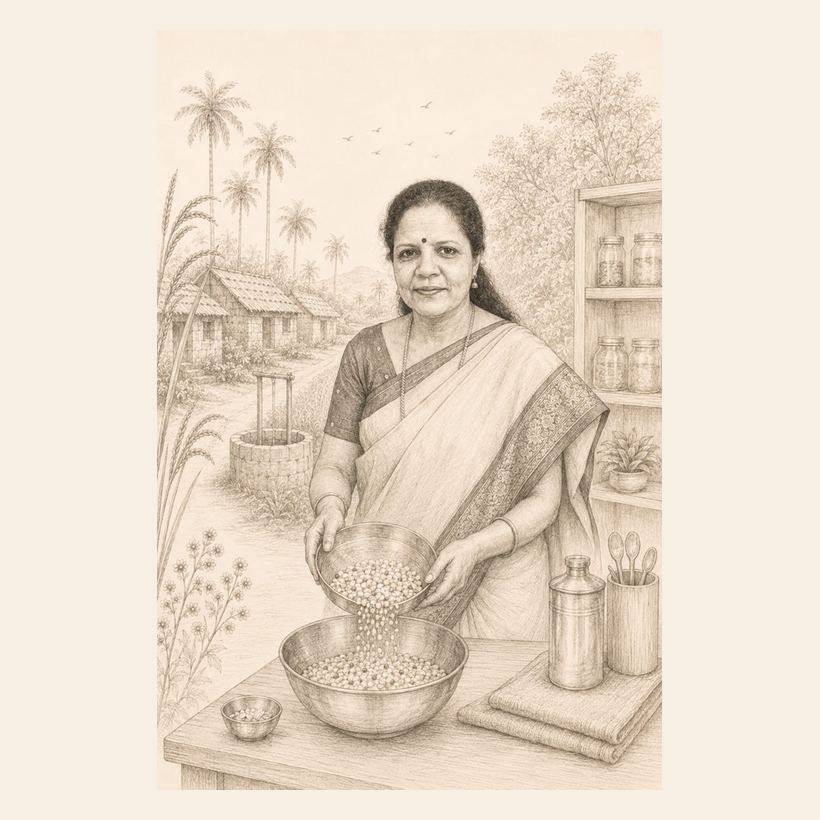
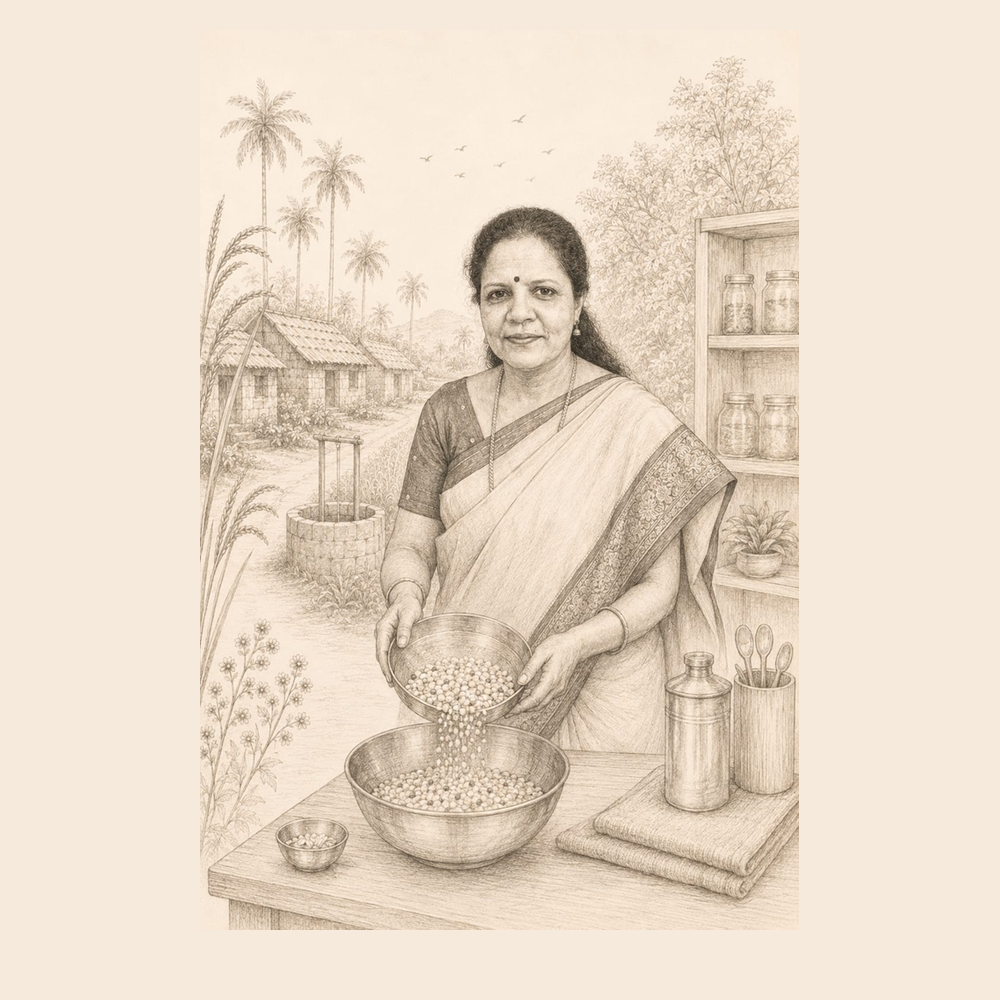
Add files via upload

Changed region(s): [[0.1829, 0.061, 0.8232, 0.9756]]

diff --git a/index.html b/index.html
@@ -35,7 +35,7 @@
     .outline-btn{display:inline-flex; align-items:center; justify-content:center; color:var(--green); font-weight:900; border:1.5px solid rgba(6,77,54,.24); padding:11px 15px; border-radius:999px; background:rgba(255,250,243,.65)}
     .hero-visual{background:linear-gradient(160deg, rgba(6,77,54,.12), rgba(201,149,47,.10)); display:flex; flex-direction:column; align-items:center; justify-content:flex-start; padding:14px 24px 72px; position:relative}
     .hero-visual::after{content:""; position:absolute; inset:auto -90px -90px auto; width:260px; height:260px; background:rgba(201,149,47,.12); border-radius:50%}
-    .hero-visual img{width:min(360px,82%); max-height:420px; object-fit:contain; border-radius:28px; border:8px solid rgba(255,250,243,.92); box-shadow:0 28px 70px rgba(0,0,0,.16); background:#fff; position:relative; z-index:2; margin-top:0}
+    .hero-visual img{width:min(540px,98%); max-height:560px; object-fit:contain; border-radius:28px; border:8px solid rgba(255,250,243,.92); box-shadow:0 28px 70px rgba(0,0,0,.16); background:#fff; position:relative; z-index:2; margin-top:0}
     .stats{display:grid; grid-template-columns: repeat(2, minmax(0,1fr)); gap:12px; margin-top:26px; max-width:440px}
     .stat{background:rgba(255,250,243,.72); border:1px solid rgba(59,32,26,.1); border-radius:18px; padding:14px}
     .stat strong{display:block; color:var(--green); font-size:25px}
@@ -55,9 +55,15 @@
     .product-body h4{margin:0; color:var(--green); font-size:18px; line-height:1.14}
     .meta{display:flex; flex-wrap:wrap; gap:7px}
     .meta span{background:rgba(6,77,54,.08); color:var(--green); border-radius:999px; padding:5px 8px; font-weight:900; font-size:11px}
+    .price-row{display:flex; flex-wrap:wrap; gap:8px; align-items:center; margin-top:2px}
+    .mrp-pill{display:inline-flex; align-items:center; gap:6px; background:linear-gradient(180deg, #f7e9d2 0%, #f2ddbf 100%); color:#7d4d21; border:1.5px solid #d9b78a; border-radius:999px; padding:7px 12px; font-weight:1000; font-size:13px; box-shadow:inset 0 1px 0 rgba(255,255,255,.75), 0 4px 10px rgba(125,77,33,.08)}
+    .mrp-pill strong{font-size:14px; color:#7d4d21}
+    .desc-special{display:inline-block; color:#a64f19; font-family:Georgia,"Times New Roman",serif; font-style:italic; font-weight:1000; background:linear-gradient(180deg, #f7e9d2 0%, #f2ddbf 100%); border:1.5px solid #d9b78a; border-radius:999px; padding:3px 12px; box-shadow:inset 0 1px 0 rgba(255,255,255,.75), 0 4px 10px rgba(125,77,33,.08); white-space:nowrap; animation:specialBlink 1.15s ease-in-out infinite}
+    @keyframes specialBlink{0%,100%{opacity:1; transform:scale(1); box-shadow:inset 0 1px 0 rgba(255,255,255,.75), 0 4px 10px rgba(125,77,33,.08)}50%{opacity:.42; transform:scale(1.04); box-shadow:inset 0 1px 0 rgba(255,255,255,.75), 0 0 0 3px rgba(214,126,47,.10), 0 8px 20px rgba(214,126,47,.22)}}
+
     .product-body p{margin:0; line-height:1.5; color:rgba(59,32,26,.8); font-size:13.5px}
     .desc-highlight{color:var(--gold); font-family:Georgia,"Times New Roman",serif; font-style:italic; font-weight:900; background:rgba(201,149,47,.12); padding:1px 5px; border-radius:999px; white-space:nowrap}
-    .desc-special{color:var(--green); font-family:Georgia,"Times New Roman",serif; font-style:italic; font-weight:900; background:rgba(6,77,54,.10); padding:1px 5px; border-radius:999px; white-space:nowrap}
+    
     .product-actions{display:flex; gap:8px; flex-wrap:wrap; margin-top:auto; padding-top:4px}
     .product-actions .whatsapp{padding:9px 10px; font-size:13px}
     .view-link{border:none; background:transparent; color:var(--green); font-weight:900; cursor:pointer; padding:7px 0; text-decoration:underline; text-underline-offset:3px; font-size:12px}
@@ -77,6 +83,25 @@
     .social-card{background:#fffaf3; border:1px solid rgba(59,32,26,.12); border-radius:22px; padding:14px; text-align:center}
     .social-card img{width:126px; height:126px; object-fit:contain; margin:4px auto 8px; display:block}
     .social-card a{color:var(--green); font-weight:900; word-break:break-word; font-size:13px}
+
+    .contact-item-icon,.social-logo-link{display:inline-flex; align-items:center; justify-content:center; vertical-align:middle}
+    .contact-item-icon svg{width:18px; height:18px; margin-right:8px; color:var(--green)}
+    .social-logo-link{width:44px; height:44px; border-radius:50%; background:rgba(6,77,54,.08); border:1.5px solid rgba(6,77,54,.15); transition:transform .2s ease, box-shadow .2s ease, background .2s ease}
+    .social-logo-link svg{width:24px; height:24px; color:var(--green)}
+    .social-logo-link:hover{transform:translateY(-2px); box-shadow:0 8px 18px rgba(6,77,54,.12); background:rgba(6,77,54,.12)}
+
+    .contact-link-row{display:flex; align-items:center; gap:12px; flex-wrap:wrap}
+    .contact-link-row .social-logo-link{width:42px; height:42px}
+    .contact-link-row .email-address{color:var(--green); font-weight:900; text-decoration:underline; text-underline-offset:3px; word-break:break-word}
+
+    .social-text-row{display:flex; align-items:center; gap:10px; flex-wrap:wrap; margin-top:8px}
+    .social-text-link{display:inline-flex; align-items:center; justify-content:center; width:22px; height:22px; color:var(--green); text-decoration:none}
+    .social-text-link svg{width:22px; height:22px}
+    .social-label-chip{display:inline-flex; align-items:center; min-height:26px; padding:3px 7px; background:rgba(59,59,59,.18); color:#333; font-weight:900; font-size:15px; line-height:1.2; text-decoration:none!important; border-radius:0}
+    .social-label-chip:hover{background:rgba(6,77,54,.14); color:var(--green)}
+
+
+
     .certs{display:flex; gap:14px; flex-wrap:wrap; align-items:center; margin-top:18px}
     .certs img{max-width:260px; height:auto}
     .gst-badge{background:#fffaf3; border:2px solid var(--green); border-radius:20px; padding:16px 18px; color:var(--green); font-weight:900}
@@ -99,6 +124,12 @@
   </style>
 </head>
 <body>
+<svg xmlns="http://www.w3.org/2000/svg" style="position:absolute;width:0;height:0;overflow:hidden" aria-hidden="true" focusable="false">
+  <symbol id="icon-instagram" viewBox="0 0 24 24"><path fill="currentColor" d="M7.75 2h8.5A5.75 5.75 0 0 1 22 7.75v8.5A5.75 5.75 0 0 1 16.25 22h-8.5A5.75 5.75 0 0 1 2 16.25v-8.5A5.75 5.75 0 0 1 7.75 2Zm0 1.8A3.95 3.95 0 0 0 3.8 7.75v8.5a3.95 3.95 0 0 0 3.95 3.95h8.5a3.95 3.95 0 0 0 3.95-3.95v-8.5a3.95 3.95 0 0 0-3.95-3.95h-8.5Zm8.95 1.35a1.1 1.1 0 1 1 0 2.2 1.1 1.1 0 0 1 0-2.2ZM12 6.35A5.65 5.65 0 1 1 6.35 12 5.66 5.66 0 0 1 12 6.35Zm0 1.8A3.85 3.85 0 1 0 15.85 12 3.86 3.86 0 0 0 12 8.15Z"/></symbol>
+  <symbol id="icon-facebook" viewBox="0 0 24 24"><path fill="currentColor" d="M13.5 22v-8h2.8l.42-3.25H13.5V8.67c0-.94.26-1.57 1.6-1.57h1.72V4.2A23.1 23.1 0 0 0 14.3 4c-2.5 0-4.2 1.52-4.2 4.32v2.43H7.3V14h2.8v8h3.4Z"/></symbol>
+  <symbol id="icon-email" viewBox="0 0 24 24"><path fill="currentColor" d="M3 5.25A2.25 2.25 0 0 1 5.25 3h13.5A2.25 2.25 0 0 1 21 5.25v13.5A2.25 2.25 0 0 1 18.75 21H5.25A2.25 2.25 0 0 1 3 18.75V5.25Zm1.8.38v.18l7.2 5.62 7.2-5.62v-.18H4.8Zm14.4 2.46-6.65 5.18a.9.9 0 0 1-1.1 0L4.8 8.09v10.66c0 .25.2.45.45.45h13.5c.25 0 .45-.2.45-.45V8.09Z"/></symbol>
+</svg>
+
 <header class="topbar">
   <div class="wrap nav">
     <a class="brand" href="#top" aria-label="Saraswati's Kitchen home">
@@ -178,8 +209,16 @@
               <p><strong>Saraswati's Kitchen</strong> is a unit of White Beans Innovations.</p>
               <p><strong>Phone / WhatsApp:</strong> <a href="https://wa.me/918588825220" target="_blank" rel="noopener">8588825220</a></p>
               <p class="distributor-note">Distributor enquiries are welcome.</p>
-              <p><strong>Instagram:</strong> <a href="https://www.instagram.com/saraswatis.kitchen?igsh=OTh3OXY5ODN5a3V4" target="_blank" rel="noopener">@saraswatis.kitchen</a></p>
-              <p><strong>Facebook:</strong> <a href="https://www.facebook.com/share/1QmvS9EoXv/" target="_blank" rel="noopener">Saraswati's Kitchen on Facebook</a></p>
+              <div class="contact-link-row">
+                <a class="social-logo-link" href="mailto:parvatiswaminathan@gmail.com" aria-label="Email"><svg viewBox="0 0 24 24"><use href="#icon-email"></use></svg></a>
+                <a class="email-address" href="mailto:parvatiswaminathan@gmail.com">parvatiswaminathan@gmail.com</a>
+              </div>
+              <div class="social-text-row">
+                <a class="social-text-link" href="https://www.instagram.com/saraswatis.kitchen?igsh=OTh3OXY5ODN5a3V4" target="_blank" rel="noopener" aria-label="Instagram"><svg viewBox="0 0 24 24"><use href="#icon-instagram"></use></svg></a>
+                <a class="social-label-chip" href="https://www.instagram.com/saraswatis.kitchen?igsh=OTh3OXY5ODN5a3V4" target="_blank" rel="noopener">@saraswatis.kitchen</a>
+                <a class="social-text-link" href="https://www.facebook.com/share/1QmvS9EoXv/" target="_blank" rel="noopener" aria-label="Facebook"><svg viewBox="0 0 24 24"><use href="#icon-facebook"></use></svg></a>
+                <a class="social-label-chip" href="https://www.facebook.com/share/1QmvS9EoXv/" target="_blank" rel="noopener">Saraswati's Kitchen</a>
+              </div>
             </div>
             <div class="certs">
               <img src="assets/brand/fssai-badge.png" alt="FSSAI license 12725055000859" />
@@ -191,11 +230,11 @@
             <div class="socials">
               <div class="social-card">
                 <img src="assets/qr/instagram.png" alt="Instagram QR code" />
-                <a href="https://www.instagram.com/saraswatis.kitchen?igsh=OTh3OXY5ODN5a3V4" target="_blank" rel="noopener">Instagram</a>
+                <a class="social-logo-link" href="https://www.instagram.com/saraswatis.kitchen?igsh=OTh3OXY5ODN5a3V4" target="_blank" rel="noopener" aria-label="Instagram"><svg viewBox="0 0 24 24"><use href="#icon-instagram"></use></svg></a>
               </div>
               <div class="social-card">
                 <img src="assets/qr/facebook.png" alt="Facebook QR code" />
-                <a href="https://www.facebook.com/share/1QmvS9EoXv/" target="_blank" rel="noopener">Facebook</a>
+                <a class="social-logo-link" href="https://www.facebook.com/share/1QmvS9EoXv/" target="_blank" rel="noopener" aria-label="Facebook"><svg viewBox="0 0 24 24"><use href="#icon-facebook"></use></svg></a>
               </div>
               <div class="social-card">
                 <img src="assets/qr/whatsapp.png" alt="WhatsApp QR code" />
@@ -234,7 +273,8 @@ const products = [
     "pack": "200 g / 500 g",
     "image": "assets/products/sprouted-ragi-dosa-premix.jpg",
     "tag": "Best Seller",
-    "description": "Best Seller - sprouted ragi goodness for quick, wholesome dosas."
+    "description": "Best Seller - sprouted ragi goodness for quick, wholesome dosas.",
+    "mrp": "₹150"
   },
   {
     "title": "Rolled Oats Dosa Premix",
@@ -242,7 +282,8 @@ const products = [
     "pack": "200 g / 500 g",
     "image": "assets/products/rolled-oats-dosa-premix.jpg",
     "tag": "Best Seller",
-    "description": "Best Seller - hearty rolled oats premix for light, crisp dosas."
+    "description": "Best Seller - hearty rolled oats premix for light, crisp dosas.",
+    "mrp": "₹150"
   },
   {
     "title": "Soyabean Dosa Premix",
@@ -250,7 +291,8 @@ const products = [
     "pack": "200 g / 500 g",
     "image": "assets/products/soyabean-dosa-premix.jpg",
     "tag": "Protein-Rich",
-    "description": "Unbelievably tasty and protein-rich, made for everyday dosa cravings."
+    "description": "Unbelievably tasty and protein-rich, made for everyday dosa cravings.",
+    "mrp": "₹150"
   },
   {
     "title": "Jowar Dosa Premix",
@@ -258,7 +300,8 @@ const products = [
     "pack": "200 g / 500 g",
     "image": "assets/products/jowar-dosa-premix.jpg",
     "tag": "Millet Blend",
-    "description": "Nutritious jowar millet blend for easy, healthy dosas."
+    "description": "Nutritious jowar millet blend for easy, healthy dosas.",
+    "mrp": "₹150"
   },
   {
     "title": "Adai Multi Grain Premix",
@@ -266,7 +309,8 @@ const products = [
     "pack": "200 g / 500 g",
     "image": "assets/products/adai-multi-grain-premix.jpg",
     "tag": "Must Try",
-    "description": "Saraswati's special - a hearty multi-grain premix and a must try."
+    "description": "Saraswati's special - a hearty multi-grain premix and a must try.",
+    "mrp": "₹150"
   },
   {
     "title": "Bajra Dosa Premix",
@@ -274,7 +318,8 @@ const products = [
     "pack": "200 g / 500 g",
     "image": "assets/products/bajra-dosa-premix.jpg",
     "tag": "Bajra Goodness",
-    "description": "Nutritious bajra premix for crisp, comforting homemade dosas."
+    "description": "Nutritious bajra premix for crisp, comforting homemade dosas.",
+    "mrp": "₹150"
   },
   {
     "title": "Plain Dosa Premix",
@@ -282,7 +327,8 @@ const products = [
     "pack": "200 g / 500 g",
     "image": "assets/products/plain-dosa-premix.jpg",
     "tag": "Instant Mix",
-    "description": "Make delicious crisp dosas in minutes - simple, quick and homely."
+    "description": "Make delicious crisp dosas in minutes - simple, quick and homely.",
+    "mrp": "₹150"
   },
   {
     "title": "Plain Idli Premix",
@@ -290,7 +336,8 @@ const products = [
     "pack": "200 g / 500 g",
     "image": "assets/products/plain-idli-premix.jpg",
     "tag": "Soft & Fluffy",
-    "description": "Quick and easy premix for soft, fluffy homemade idlis."
+    "description": "Quick and easy premix for soft, fluffy homemade idlis.",
+    "mrp": "₹150"
   },
   {
     "title": "Millet Pancake Chocolate",
@@ -298,7 +345,8 @@ const products = [
     "pack": "200 g / 500 g",
     "image": "assets/products/millet-pancake-chocolate.jpg",
     "tag": "Chocolate",
-    "description": "Oats and ragi goodness in a delicious chocolate pancake mix."
+    "description": "Oats and ragi goodness in a delicious chocolate pancake mix.",
+    "mrp": "₹180"
   },
   {
     "title": "Millet Pancake Valilla",
@@ -306,7 +354,8 @@ const products = [
     "pack": "200 g / 500 g",
     "image": "assets/products/millet-pancake-valilla.jpg",
     "tag": "Vanilla",
-    "description": "Oats and jowar goodness in a soft, wholesome vanilla pancake mix."
+    "description": "Oats and jowar goodness in a soft, wholesome vanilla pancake mix.",
+    "mrp": "₹180"
   },
   {
     "title": "Millet Pancake Mango",
@@ -314,7 +363,8 @@ const products = [
     "pack": "200 g / 500 g",
     "image": "assets/products/millet-pancake-mango.jpg",
     "tag": "Mango",
-    "description": "Our first mango pancake mix - made with sprouted millets."
+    "description": "Our first mango pancake mix - made with sprouted millets.",
+    "mrp": "₹180"
   },
   {
     "title": "Khapali Ata (Emmer Wheat)",
@@ -322,7 +372,8 @@ const products = [
     "pack": "1 kg / 5 kg",
     "image": "assets/products/khapali-ata-emmer-wheat.jpg",
     "tag": "Ancient Grain",
-    "description": "Stone-ground ancient emmer wheat flour for soft, nutritious rotis."
+    "description": "Stone-ground ancient emmer wheat flour for soft, nutritious rotis.",
+    "mrp": "₹250"
   },
   {
     "title": "10 Grains Khapali-Millet Ata",
@@ -330,7 +381,8 @@ const products = [
     "pack": "1 kg / 5 kg",
     "image": "assets/products/10-grains-khapali-millet-ata.jpg",
     "tag": "Multi-Grain",
-    "description": "Khapali blended with nutrient-rich millets and supergrains."
+    "description": "Khapali blended with nutrient-rich millets and supergrains.",
+    "mrp": "₹250"
   },
   {
     "title": "Nuts & Seeds Chocolate Milk Blend",
@@ -338,7 +390,8 @@ const products = [
     "pack": "200 g",
     "image": "assets/products/nuts-seeds-chocolate-milk-blend.jpg",
     "tag": "Nutrition-Packed",
-    "description": "Packed with REAL dry fruits, nuts and seeds - no compromise on daily nutrition-packed goodness."
+    "description": "Packed with REAL dry fruits, nuts and seeds - no compromise on daily nutrition-packed goodness.",
+    "mrp": "₹280"
   },
   {
     "title": "Channa and Jau Sattu Drink",
@@ -346,7 +399,8 @@ const products = [
     "pack": "250 g",
     "image": "assets/products/channa-and-jau-sattu-drink.jpg",
     "tag": "Summer Cooler",
-    "description": "Summer coolers, chill your ❤."
+    "description": "Summer coolers, chill your ❤.",
+    "mrp": "₹180"
   },
   {
     "title": "Sambar Powder",
@@ -354,7 +408,8 @@ const products = [
     "pack": "100 g",
     "image": "assets/products/sambar-powder.jpg",
     "tag": "Freshly Ground",
-    "description": "Traditional recipe, bold spice blend and freshly ground aroma."
+    "description": "Traditional recipe, bold spice blend and freshly ground aroma.",
+    "mrp": "₹120"
   },
   {
     "title": "Idli/Dosa Podi",
@@ -362,7 +417,8 @@ const products = [
     "pack": "100 g",
     "image": "assets/products/idli-dosa-podi.jpg",
     "tag": "Spice Blend",
-    "description": "Traditional South Indian spice blend for idli, dosa and rice."
+    "description": "Traditional South Indian spice blend for idli, dosa and rice.",
+    "mrp": "₹120"
   },
   {
     "title": "Diet Mix (Mixture)",
@@ -370,7 +426,8 @@ const products = [
     "pack": "165 g",
     "image": "assets/products/diet-mix-mixture.jpg",
     "tag": "Guilt-Free Snacking",
-    "description": "Packed with real dry fruits and peanuts - for your guilt-free snacking."
+    "description": "Packed with real dry fruits and peanuts - for your guilt-free snacking.",
+    "mrp": "₹160"
   },
   {
     "title": "Laddu Varieties",
@@ -378,7 +435,8 @@ const products = [
     "pack": "250 g / 500 g",
     "image": "assets/products/laddu-varieties.jpg",
     "tag": "Homemade Sweets",
-    "description": "Besan-dryfruit, Atta-Gond, Chana-Makhana-Dryfruit, Nuts&Seeds, Methi-Dryfruit, Khoya-Nariyal-Dryfruit."
+    "description": "Besan-dryfruit, Atta-Gond, Chana-Makhana-Dryfruit, Nuts&Seeds, Methi-Dryfruit, Khoya-Nariyal-Dryfruit.",
+    "mrp": "₹280"
   },
   {
     "title": "Mathri Varieties",
@@ -386,7 +444,8 @@ const products = [
     "pack": "250 g / 500 g",
     "image": "assets/products/mathri-varieties.jpg",
     "tag": "Chai-Time Snack",
-    "description": "India favourite chai time snack - Atta, Maida-Suji, beetroot-spinch (red, green marbling)."
+    "description": "India favourite chai time snack - Atta, Maida-Suji, beetroot-spinch (red, green marbling).",
+    "mrp": "₹220"
   },
   {
     "title": "Crispy Namakpare",
@@ -394,7 +453,8 @@ const products = [
     "pack": "250 g / 500 g",
     "image": "assets/products/crispy-namakpare.jpg",
     "tag": "Crispy Snack",
-    "description": "Traditional homemade crispy namakpare for anytime snacking."
+    "description": "Traditional homemade crispy namakpare for anytime snacking.",
+    "mrp": "₹180"
   }
 ];
 const phone = "918588825220";
@@ -416,7 +476,7 @@ function highlightDescription(text) {
     .replace(/Saraswati’s special/g, '<span class="desc-special">Saraswati’s special</span>');
 }
 function orderLink(product) {
-  const message = `Hello Parvati ji, I want to enquire about: ${product.title}. Available pack: ${product.pack}. Please confirm price and availability.`;
+  const message = `Hello Parvati ji, I want to enquire about: ${product.title}. Available pack: ${product.pack}. MRP: ${product.mrp}. Please share the best available offer and availability.`;
   return `https://wa.me/${phone}?text=${encodeURIComponent(message)}`;
 }
 function renderFilters() {
@@ -437,6 +497,7 @@ function renderProducts() {
       <div class="product-body">
         <h4>${product.title}</h4>
         <div class="meta"><span>${product.pack}</span><span>${product.tag}</span></div>
+        <div class="price-row">${product.mrp ? `<span class="mrp-pill">MRP <strong>${product.mrp}</strong></span>` : ``}</div>
         <p>${highlightDescription(product.description)}</p>
         <div class="product-actions">
           <a class="whatsapp" href="${orderLink(product)}" target="_blank" rel="noopener"><span class="wa-icon">${whatsappIcon}</span> Enquire</a>
